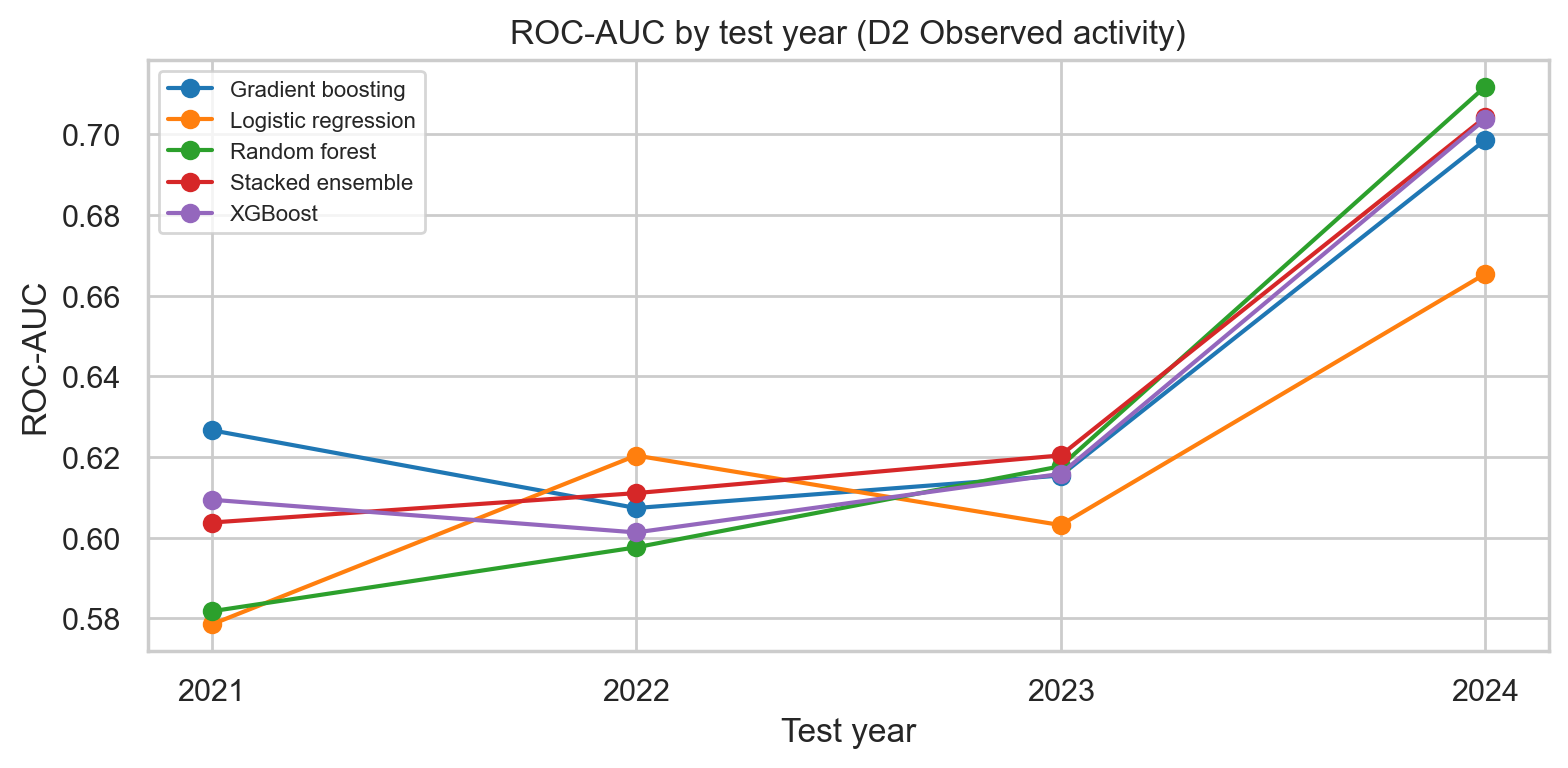
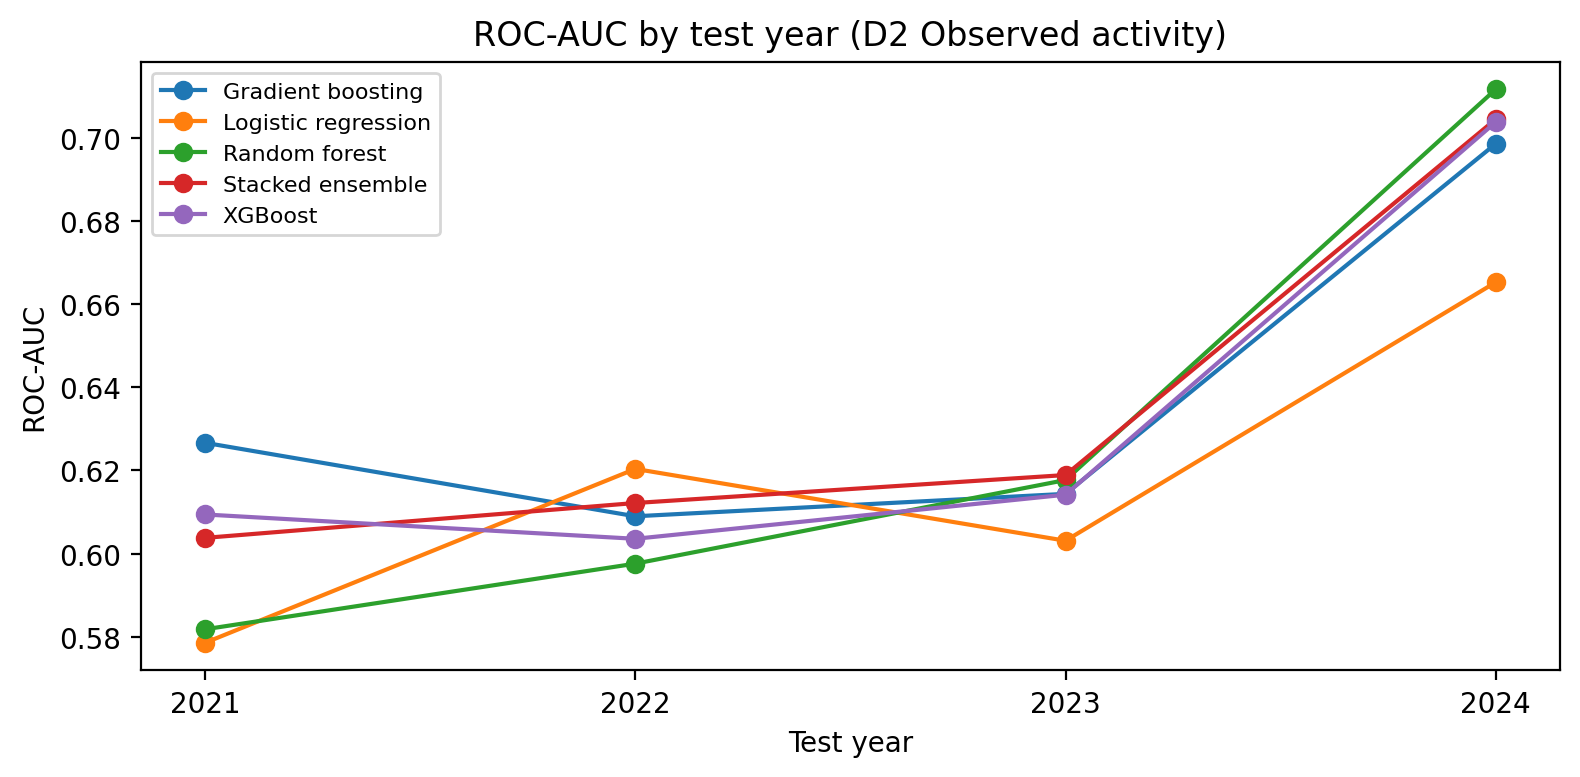
Regenerate evaluation metrics and figures from the scripted pipeline; align report numbers

diff --git a/reports/REPORT.md b/reports/REPORT.md
@@ -147,19 +147,23 @@ and are intended to be re-run as new outcomes mature.
 
 ## 4. Results
 
+All numbers in 4.1, 4.3, 4.5 and 4.6 are the outputs of `scripts/evaluate.py` and `scripts/train.py` committed under
+`reports/metrics/`. The random-split comparison (4.2) and the SHAP sensitivity analysis (4.4) are computed in the
+research notebook; the scripted run reproduces the notebook's metrics to within 0.002 AUC.
+
 ### 4.1 Performance under temporal validation (primary definition D2)
 
 | Model | Accuracy | Precision | Recall | F1 (award) | F1 (non-award) | Bal. acc. | ROC-AUC [95% CI] |
 |---|---|---|---|---|---|---|---|
-| Logistic regression | 0.606 | 0.868 | 0.621 | 0.724 | 0.314 | 0.577 | 0.607 [0.602, 0.612] |
+| Logistic regression | 0.606 | 0.868 | 0.621 | 0.724 | 0.314 | 0.577 | 0.607 [0.602, 0.611] |
 | Random forest | 0.535 | 0.879 | 0.511 | 0.646 | 0.323 | 0.583 | 0.622 [0.617, 0.627] |
-| **Gradient boosting** | 0.367 | 0.892 | 0.271 | 0.415 | 0.309 | 0.555 | **0.625 [0.620, 0.630]** |
-| XGBoost | 0.339 | 0.888 | 0.234 | 0.370 | 0.304 | 0.545 | 0.620 [0.615, 0.625] |
-| Stacked ensemble | 0.340 | 0.889 | 0.236 | 0.373 | 0.304 | 0.545 | 0.625 [0.620, 0.630] |
+| **Gradient boosting** | 0.364 | 0.893 | 0.267 | 0.411 | 0.309 | 0.555 | **0.626 [0.621, 0.631]** |
+| XGBoost | 0.340 | 0.889 | 0.235 | 0.372 | 0.305 | 0.546 | 0.620 [0.616, 0.625] |
+| Stacked ensemble | 0.338 | 0.889 | 0.233 | 0.369 | 0.304 | 0.545 | 0.625 [0.620, 0.630] |
 
 Gradient boosting has the highest pooled ROC-AUC and is selected. DeLong tests: it beats logistic regression
-(Δ = 0.019, p < 10⁻²⁰) and XGBoost (Δ = 0.005, p = 1.2 × 10⁻⁵), is not distinguishable from random forest
-(Δ = 0.003, p = 0.075) or the stack (Δ = 0.0003, p = 0.78). The stack adds nothing, which is itself informative:
+(Δ = 0.019, p < 10⁻²⁰) and XGBoost (Δ = 0.005, p = 7 × 10⁻⁶), is borderline against random forest
+(Δ = 0.003, p = 0.050) and indistinguishable from the stack (Δ = 0.0004, p = 0.67). The stack adds nothing, which is itself informative:
 the families are extracting the same signal.
 
 *Interpretation.* The accuracies look poor because the threshold maximises macro-F1 on a task where non-award is
@@ -187,8 +191,8 @@ know for future tenders.
 | Definition | Gradient boosting AUC |
 |---|---|
 | D1 Naive | 0.728 |
-| D2 Observed activity | 0.625 |
-| D3 Strict failure | 0.841 |
+| D2 Observed activity | 0.626 |
+| D3 Strict failure | 0.842 |
 
 Three different "truths" give three different headline numbers. D1 is inflated because non-reporting entities are
 predictable from `pe_type` and entity experience, so the model is partly predicting who fills in the portal. D3 is
@@ -211,10 +215,10 @@ short bidding windows lowering it. Addenda and extensions matter little once the
 
 | Criterion (AGPO − Non-AGPO) | Difference | 95% CI | Reading |
 |---|---|---|---|
-| Independence: flag rate | −0.032 | [−0.038, −0.026] | reserved tenders flagged slightly *less* |
-| Separation: false-flag rate among awarded | −0.019 | [−0.026, −0.012] | fewer awarded AGPO tenders wrongly flagged |
-| Separation: FPR among not awarded | +0.061 | [0.045, 0.078] | more failing AGPO tenders missed |
-| Sufficiency: ECE | −0.005 | [−0.010, 0.000] | calibration equal |
+| Independence: flag rate | −0.029 | [−0.035, −0.023] | reserved tenders flagged slightly *less* |
+| Separation: false-flag rate among awarded | −0.017 | [−0.023, −0.010] | fewer awarded AGPO tenders wrongly flagged |
+| Separation: FPR among not awarded | +0.051 | [0.035, 0.066] | more failing AGPO tenders missed |
+| Sufficiency: ECE | −0.005 | [−0.010, 0.001] | calibration equal |
 
 AGPO tenders have a higher base award rate (88% vs 82%), so independence and separation cannot both hold; the
 score errs on the side of *under*-flagging reserved tenders, and its probabilities mean the same thing for both
@@ -223,7 +227,7 @@ the ECE difference is practically zero). The harm the proposal worried about, di
 reserved tenders, is not present.
 
 County is a different story (figure 11): across 27 counties with ≥ 300 test tenders the flag rate ranges from
-0.27 to 0.99 and ECE from 0.01 to 0.23. County is a predictor, and some counties genuinely fail more, but
+0.26 to 0.99 and ECE from 0.01 to 0.22. County is a predictor, and some counties genuinely fail more, but
 disparities of this size also reflect reporting differences between county governments. Any deployment should
 report county-level flag rates and should not use the score to compare counties with each other.
 
